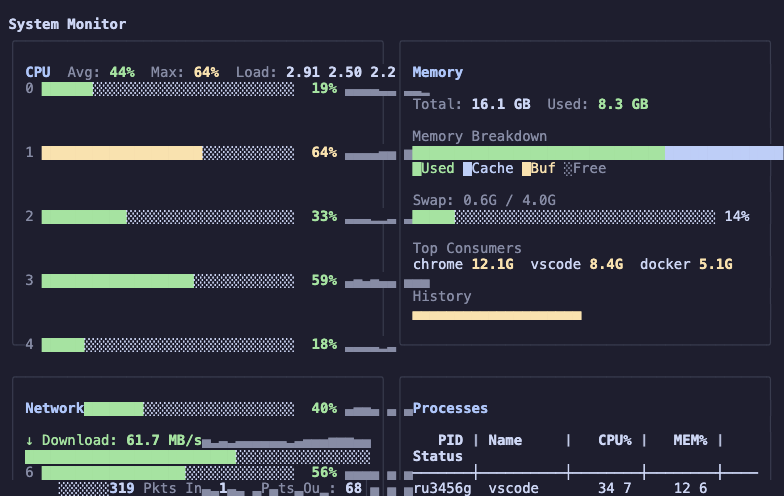
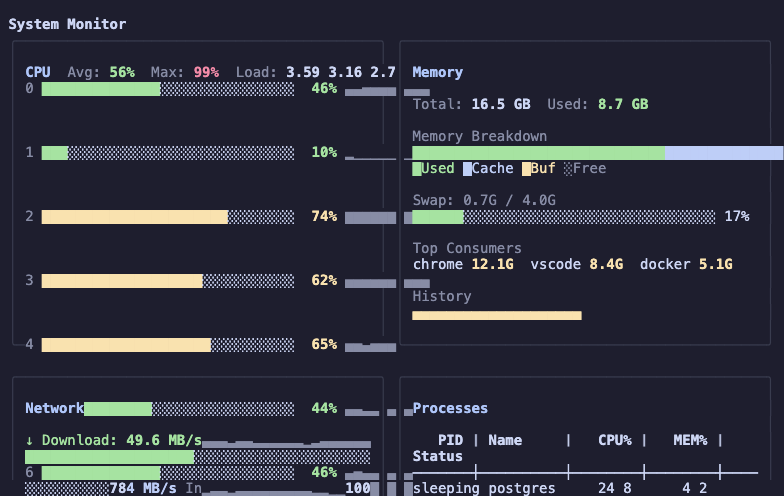
fix(examples): dashboard rendering — replace ProgressBar with fixed-width bars
ProgressBar and useContentRect don't work correctly in nested flex
layouts (wide 4-pane mode). Bars overflow pane boundaries on first
render and incremental rendering leaves artifacts.

Replace all ProgressBar usage with SimpleBar (fixed-width manual bars)
and keep StackedBar (flexGrow-only, works in column parents). Remove
useContentRect from bar width calculation. Add wrap="truncate" safety
on all content rows.

diff --git a/examples/layout/dashboard.tsx b/examples/layout/dashboard.tsx
@@ -22,7 +22,6 @@ import {
   TabList,
   Tab,
   TabPanel,
-  ProgressBar,
   useContentRect,
   useInput,
   useApp,
@@ -47,6 +46,49 @@ const SPARK_CHARS = "▁▂▃▄▅▆▇█"
 
 function sparkline(values: number[], max: number): string {
   return values.map((v) => SPARK_CHARS[Math.round((v / max) * 7)] ?? SPARK_CHARS[0]).join("")
+}
+
+// ============================================================================
+// Bar components
+// ============================================================================
+
+const BAR_WIDTH = 30
+
+/** Fixed-width progress bar with pre-calculated chars (no flex measurement needed) */
+function SimpleBar({
+  value,
+  color,
+  width = BAR_WIDTH,
+  showPercentage = false,
+}: {
+  value: number
+  color: string
+  width?: number
+  showPercentage?: boolean
+}) {
+  const pct = Math.max(0, Math.min(1, value))
+  const filled = Math.round(pct * width)
+  const empty = width - filled
+  return (
+    <Box wrap="truncate">
+      <Text color={color}>{"█".repeat(filled)}</Text>
+      <Text dimColor>{"░".repeat(empty)}</Text>
+      {showPercentage && <Text> {Math.round(pct * 100)}%</Text>}
+    </Box>
+  )
+}
+
+/** Multi-segment stacked bar (flexGrow — works in column-only parents) */
+function StackedBar({ segments }: { segments: { value: number; color: string; char?: string }[] }) {
+  return (
+    <Box>
+      {segments.map((seg, i) => (
+        <Box key={i} flexGrow={Math.max(1, Math.round(seg.value * 100))}>
+          <Text color={seg.color}>{(seg.char ?? "█").repeat(80)}</Text>
+        </Box>
+      ))}
+    </Box>
+  )
 }
 
 // ============================================================================
@@ -208,18 +250,16 @@ function LabelValue({ label, value, color }: { label: string; value: string; col
 
 // --- CPU Tab ---
 
-function CpuCore({ index, core }: { index: number; core: CoreMetrics }) {
+function CpuCore({ index, core, barWidth }: { index: number; core: CoreMetrics; barWidth: number }) {
   const pct = Math.round(core.usage)
   const color = severityColor(pct)
+  const filled = Math.round((pct / 100) * barWidth)
+  const empty = barWidth - filled
   return (
-    <Box>
+    <Box wrap="truncate">
       <Muted>{`${index} `}</Muted>
-      <Box flexGrow={Math.max(1, pct)} flexBasis={0}>
-        <Text color={color}>{"█".repeat(80)}</Text>
-      </Box>
-      <Box flexGrow={Math.max(1, 100 - pct)} flexBasis={0}>
-        <Text dimColor>{"░".repeat(80)}</Text>
-      </Box>
+      <Text color={color}>{"█".repeat(filled)}</Text>
+      <Text dimColor>{"░".repeat(empty)}</Text>
       <Text color={color}>
         <Strong>{` ${String(pct).padStart(3)}%`}</Strong>
       </Text>
@@ -229,7 +269,7 @@ function CpuCore({ index, core }: { index: number; core: CoreMetrics }) {
   )
 }
 
-function CpuPane({ cores }: { cores: CoreMetrics[] }) {
+function CpuPane({ cores, barWidth = BAR_WIDTH }: { cores: CoreMetrics[]; barWidth?: number }) {
   const avgCpu = cores.reduce((sum, c) => sum + c.usage, 0) / cores.length
   const maxCpu = Math.max(...cores.map((c) => c.usage))
   const load1 = ((avgCpu / 100) * 8 * 0.8 + Math.random() * 0.5).toFixed(2)
@@ -245,7 +285,7 @@ function CpuPane({ cores }: { cores: CoreMetrics[] }) {
         <LabelValue label="Load:" value={`${load1} ${load5} ${load15}`} />
       </Box>
       {cores.map((core, i) => (
-        <CpuCore key={i} index={i} core={core} />
+        <CpuCore key={i} index={i} core={core} barWidth={barWidth} />
       ))}
     </Box>
   )
@@ -253,27 +293,15 @@ function CpuPane({ cores }: { cores: CoreMetrics[] }) {
 
 // --- Memory Tab ---
 
-function StackedBar({ segments }: { segments: { value: number; color: string; char?: string }[] }) {
-  return (
-    <Box>
-      {segments.map((seg, i) => (
-        <Box key={i} flexGrow={Math.max(1, Math.round(seg.value * 100))}>
-          <Text color={seg.color}>{(seg.char ?? "█").repeat(80)}</Text>
-        </Box>
-      ))}
-    </Box>
-  )
-}
-
 function MemoryPane({ memory }: { memory: MemoryMetrics }) {
   const total = memory.used + memory.cached + memory.buffers + memory.free
   const usedPct = (memory.used / total) * 100
-  const swapPct = (memory.swap / memory.swapTotal) * 100
+  const swapPct = memory.swap / memory.swapTotal
 
   return (
     <Box flexDirection="column" gap={1} flexGrow={1}>
       <SectionHeader>Memory</SectionHeader>
-      <Box gap={2}>
+      <Box gap={2} wrap="truncate">
         <LabelValue label="Total:" value={`${total.toFixed(1)} GB`} />
         <LabelValue label="Used:" value={`${memory.used.toFixed(1)} GB`} color={severityColor(usedPct)} />
       </Box>
@@ -287,7 +315,7 @@ function MemoryPane({ memory }: { memory: MemoryMetrics }) {
             { value: memory.free / total, color: "$muted", char: "░" },
           ]}
         />
-        <Box gap={2} wrap="truncate">
+        <Box gap={1} wrap="truncate">
           <Text color={severityColor(usedPct)}>{"█"}Used</Text>
           <Text color="$info">{"█"}Cache</Text>
           <Text color="$primary">{"█"}Buf</Text>
@@ -298,7 +326,7 @@ function MemoryPane({ memory }: { memory: MemoryMetrics }) {
         <Muted>
           Swap: {memory.swap.toFixed(1)}G / {memory.swapTotal.toFixed(1)}G
         </Muted>
-        <ProgressBar value={swapPct / 100} color={severityColor(swapPct)} showPercentage />
+        <SimpleBar value={swapPct} color={severityColor(swapPct * 100)} showPercentage />
       </Box>
       <Box flexDirection="column">
         <Muted>Top Consumers</Muted>
@@ -329,22 +357,22 @@ function NetworkPane({ network }: { network: NetworkMetrics }) {
     <Box flexDirection="column" gap={1} flexGrow={1}>
       <SectionHeader>Network</SectionHeader>
       <Box flexDirection="column">
-        <Box justifyContent="space-between">
+        <Box justifyContent="space-between" wrap="truncate">
           <Text color="$success">
             {"↓"} Download: <Strong>{network.downloadRate.toFixed(1)} MB/s</Strong>
           </Text>
           <Small>{sparkline(network.downloadHistory, 100)}</Small>
         </Box>
-        <ProgressBar value={network.downloadRate / 100} color="$success" showPercentage={false} />
+        <SimpleBar value={network.downloadRate / 100} color="$success" />
       </Box>
       <Box flexDirection="column">
-        <Box justifyContent="space-between">
+        <Box justifyContent="space-between" wrap="truncate">
           <Text color="$info">
             {"↑"} Upload: <Strong>{network.uploadRate.toFixed(1)} MB/s</Strong>
           </Text>
           <Small>{sparkline(network.uploadHistory, 40)}</Small>
         </Box>
-        <ProgressBar value={network.uploadRate / 40} color="$info" showPercentage={false} />
+        <SimpleBar value={network.uploadRate / 40} color="$info" />
       </Box>
       <Box borderStyle="round" borderColor="$border" paddingX={1} flexDirection="column">
         <Muted>Connection Stats</Muted>
@@ -368,7 +396,7 @@ function NetworkPane({ network }: { network: NetworkMetrics }) {
 function ProcessRow({ proc, isTop }: { proc: ProcessInfo; isTop: boolean }) {
   const cpuColor = severityColor(proc.cpu)
   return (
-    <Box gap={1}>
+    <Box gap={1} wrap="truncate">
       <Text color="$muted">{String(proc.pid).padStart(5)}</Text>
       <Text bold={isTop}>{proc.name.padEnd(12)}</Text>
       <Text color={cpuColor}>{proc.cpu.toFixed(1).padStart(5)}%</Text>
@@ -384,7 +412,7 @@ function ProcessPane({ processes }: { processes: ProcessInfo[] }) {
   return (
     <Box flexDirection="column" gap={1} flexGrow={1}>
       <SectionHeader>Processes</SectionHeader>
-      <Box gap={1}>
+      <Box gap={1} wrap="truncate">
         <Muted>{"  PID".padStart(5)}</Muted>
         <Muted>{"Name".padEnd(12)}</Muted>
         <Muted>{"  CPU".padStart(5)}</Muted>
@@ -394,7 +422,7 @@ function ProcessPane({ processes }: { processes: ProcessInfo[] }) {
       {sorted.map((proc, i) => (
         <ProcessRow key={proc.pid} proc={proc} isTop={i === 0} />
       ))}
-      <Box gap={2} paddingTop={1}>
+      <Box gap={2} paddingTop={1} wrap="truncate">
         <LabelValue label="Total:" value={`${processes.length} processes`} />
         <LabelValue
           label="Running:"
